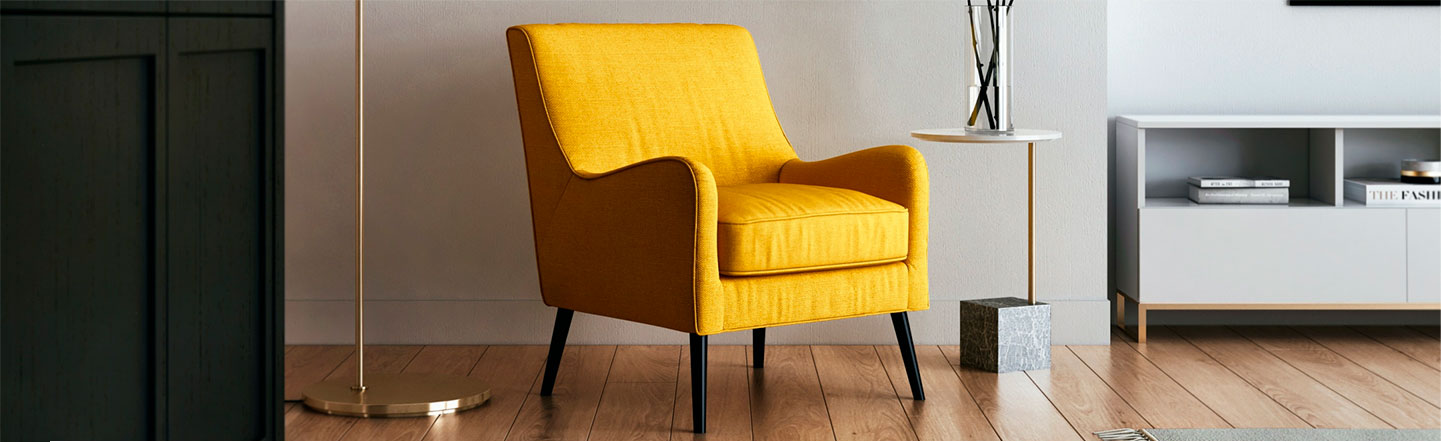
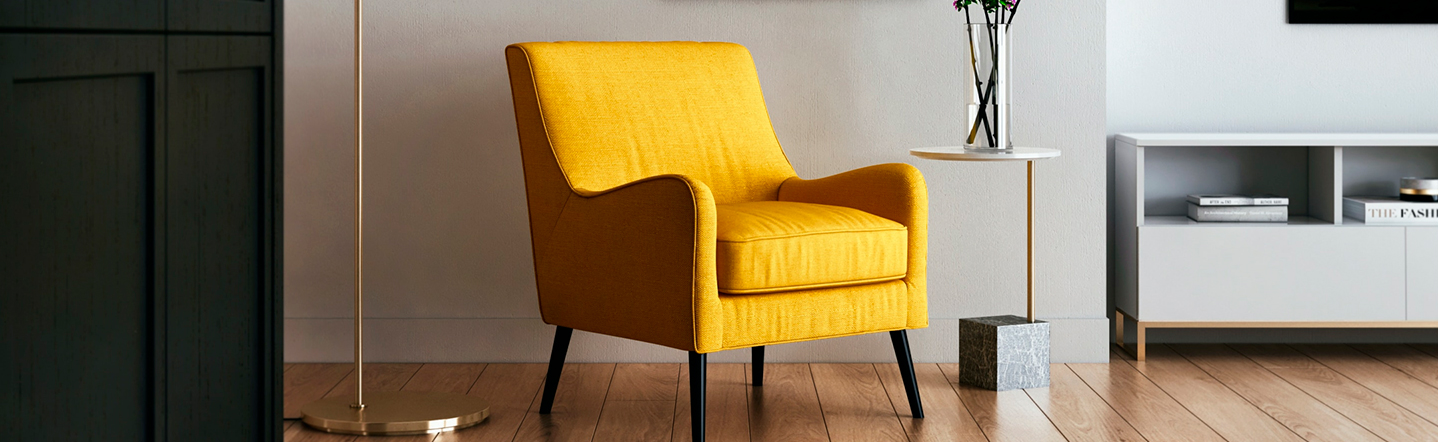
responsive images

diff --git a/src/ui/views/home/HomeHero.vue b/src/ui/views/home/HomeHero.vue
@@ -1,44 +1,51 @@
 <template>
   <section class="hero">
-    <div class="page-container">
-      <aside class="hero__info">
-        <h1 class="text-heading-primary">Lorem ipsum</h1>
-        <p class="text">Lorem ipsum dolor sit, amet consectetur adipisicing elit.</p>
-      </aside>
-    </div>
+    <picture>
+      <source media="(min-width: 48rem)" srcset="~@/ui/assets/images/hero.jpg">
+      <source media="(min-width: 30rem)" srcset="~@/ui/assets/images/hero-small.jpg">
+      <img src="~@/ui/assets/images/hero-small.jpg" alt="Yellow chair" title="Yellow chair" class="hero__image"/>
+    </picture>
+    <aside class="info">
+      <h1 class="text-heading-primary">Lorem ipsum</h1>
+      <p class="info__text">Lorem ipsum dolor sit, amet consectetur adipisicing elit.</p>
+    </aside>
   </section>
 </template>
 
 <style lang="scss" scoped>
-  .hero {
-    @include flex(flex, start, end);
-    height: 33.4vw;
-    background-image: url('~@/ui/assets/images/hero.jpg');
-    background-size: cover;
-    background-position: center;
+.hero {
+  position: relative;
 
-    @include is-mobile {
-      height: 100vw;
-    }
-
-    &__info {
-      width: 30%;
-      margin-bottom: 4rem;
-      padding: 4.5rem;
-      color: var(--color-white);
-      backdrop-filter: blur(1rem);
-      border-radius: 1rem;
-
-      @include is-desktop {
-        width: 65%;
-        padding: 2rem;
-
-        .text {
-          padding: 0;
-          line-height: 1.3;
-          font-size: 1.8rem;
-        }
-      }
-    }
+  &__image {
+    width: 100%;
   }
+}
+
+.info {
+  position: absolute;
+  bottom: 4rem;
+  left: 7rem;
+  width: 25%;
+  padding: 4.5rem;
+  padding: 4.5rem;
+  color: var(--color-white);
+  backdrop-filter: blur(1rem);
+  border-radius: 1rem;
+
+  @include is-desktop {
+    width: 35%;
+    padding: 2.5rem;
+  }
+
+  @include is-tablet {
+    left: 2rem;
+    width: 55%;
+    padding: 2rem;
+  }
+
+  &__text {
+    padding: 0;
+    line-height: 1.3;
+  }
+}
 </style>

diff --git a/src/ui/views/featuredProducts/FeaturedProduct.vue b/src/ui/views/featuredProducts/FeaturedProduct.vue
@@ -21,13 +21,15 @@
 </template>
 
 <script>
-import productMock from '@/infra/featuredProduct/__mock__/FeaturedProduct.json'
-
+import productRepo from '@/infra/featuredProduct/FeaturedProductRepository.js'
 export default {
   data () {
     return {
-      products: productMock
+      products: []
     }
+  },
+  created () {
+    productRepo.getFeaturedProducts().then(products => { this.products = products })
   }
 }
 </script>

diff --git a/src/ui/views/bestSellers/BestSellersProduct.vue b/src/ui/views/bestSellers/BestSellersProduct.vue
@@ -31,7 +31,6 @@
 
 <script>
 import productRepo from '@/infra/product/ProductRepository.js'
-
 export default {
   data() {
     return {
@@ -39,7 +38,7 @@ export default {
     }
   },
   created () {
-    productRepo.getProducts().then(products => {this.products = products} )
+    productRepo.getProducts().then(products => { this.products = products })
   }
 }
 </script>

diff --git a/src/store/index.js b/src/store/index.js
@@ -1,6 +1,5 @@
 import { createStore } from 'vuex'
 import signin from '@/store/signinStore'
-import product from '@/store/productStore.js'
 
 export default createStore({
   state: {
@@ -10,7 +9,6 @@ export default createStore({
   actions: {
   },
   modules: {
-    signin,
-    product
+    signin
   }
 })

diff --git a/src/ui/assets/styles/base/typography.scss b/src/ui/assets/styles/base/typography.scss
@@ -22,8 +22,8 @@ body {
 
 $heading-texts: (
   'heading-main': (
-    'desktop': (4rem 1.5 'bold'),
-    'mobile': (2.9rem 1.2 'bold'),
+    'desktop': (3.5rem 1.5 'bold'),
+    'mobile': (2.5rem 1 'bold'),
   ),
   'heading-secondary': (
     'desktop': (3rem 1.5 'bold'),

diff --git a/src/infra/featuredProduct/FeaturedProductRepository.js b/src/infra/featuredProduct/FeaturedProductRepository.js
@@ -1,0 +1,9 @@
+import featuredProductMock from '@/infra/featuredProduct/__mock__/FeaturedProduct.json'
+
+function getFeaturedProducts() {
+  return Promise.resolve(featuredProductMock)
+}
+
+export default {
+  getFeaturedProducts
+}

diff --git a/src/ui/views/nav/TheTopNav.vue b/src/ui/views/nav/TheTopNav.vue
@@ -25,7 +25,7 @@ export default {
 $size: 3rem;
 $full-size: 100%;
 .menu {
-  padding: 0 $size * 2;
+  padding: 0 4rem;
   z-index: 1;
 
   @include is-tablet {

diff --git a/src/ui/assets/styles/abstracts/mixin.responsive.scss b/src/ui/assets/styles/abstracts/mixin.responsive.scss
@@ -1,6 +1,6 @@
 //BREAKPOINTS
 $breakpoint-xs: 480px;
-$breakpoint-sm: 786px;
+$breakpoint-sm: 768px;
 $breakpoint-md: 1200px;
 
 @mixin is-mobile() {
